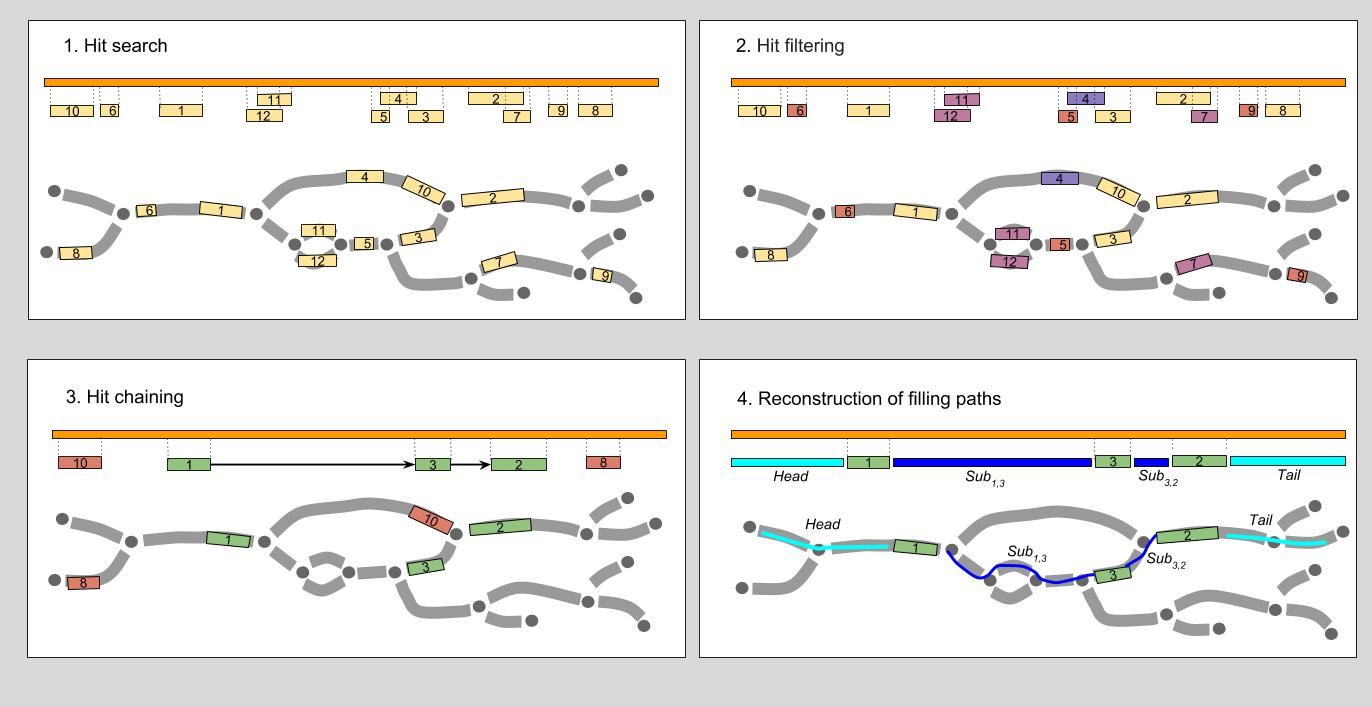
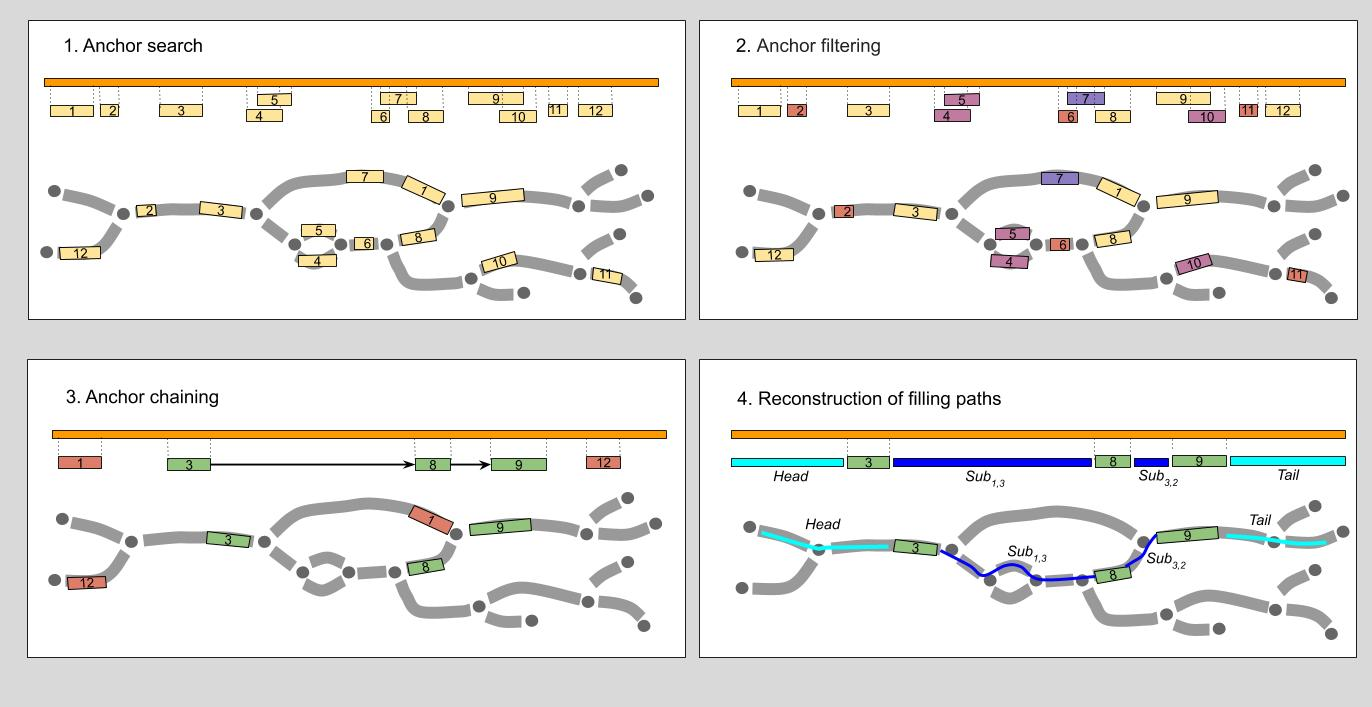
Update K->k, pics and rename hits to anchors

diff --git a/assembler/src/projects/spaligner/align_longreads.cpp b/assembler/src/projects/spaligner/align_longreads.cpp
@@ -212,7 +212,7 @@ void Launch(GAlignerConfig &cfg, const string output_dir, int threads) {
 
     INFO("Process reads from " << cfg.path_to_sequences);
     aligner.RunAligner();
-    INFO("Thank you for using SPAligner! Results can be found: " + output_dir )
+    INFO("Thank you for using SPAligner! Results can be found here: " + output_dir )
     fs::remove_dir(tmpdir);
 }
 } // namespace sensitive_aligner

diff --git a/assembler/src/projects/spaligner/README.md b/assembler/src/projects/spaligner/README.md
@@ -3,42 +3,38 @@
 Tool for fast and accurate alignment of nucleotide sequences (s.a. long reads, coding sequences, etc.) to assembly graphs. 
 
 
-## Main pipeline
+## Running SPAligner
 
-Overview of the alignment of query sequence *S* (orange bar) to assembly graph *G*. Assembly graph edges are considered directed left-to-right (explicit edge orientation was omitted to improve the clarity).
+    spaligner spaligner_config.yaml \    # config file 
+              -d pacbio \                # data type: pacbio, nanopore
+              -g assembly_graph.gfa \    # gfa-file with assembly graph 
+              -k 77 \                    # graph K-mer size
+              -s pacbio_reads.fastq.gz \ # sequences to align in fasta/fastq formats
+              -t 8                       # number of threads
 
-![pipeline](pipeline.jpg)
+By default, spaligner_config.yaml will be installed into /usr/share/spaligner/ or can be found in assembler/projects/spaligner/.
 
-1. **Hit search.** Hits (regions of high similarity) between the query and the edge labels are identified with [BWA-MEM](http://bio-bwa.sourceforge.net/). 
-2. **Hit filtering.** Hits shorter than *K*, assembly graph *K*-mer size,(hits 5, 6, 9), hits “in the middle” of long edge (hit 4) or ambiguous hits (hit 7 mostly covered by hit 2, both hits 11 and 12) are discarded.
-3. **Hit chaining.** Heaviest chain of compatible hits (chain 1->3->2) is determined.
-4. **Reconstruction of filling paths.** Paths for fragments of the query between the consecutive chain hits (as well as left- and right-most fragments) are reconstructed. The procedure is performed using fast library for sequence alignment [Edlib](https://github.com/Martinsos/edlib).
+Alignments will be saved to spaligner_result/alignment.tsv by default.
+
 
 ## Compilation
 
     git clone https://github.com/ablab/spades.git
-    cd algorithmic-biology/assembler/
+    cd spades/assembler/
     mkdir build && cd build && cmake ../src
     make spaligner
 
+Now to run SPAligner move to folder `assembler/` and execute
 
-## Running SPAligner
-
-    spaligner spaligner_config.yaml \
-              -k 77 -d pacbio \
-              -g assembly_graph.gfa \
-              -s pacbio_reads.fastq.gz
-
-By default, spaligner_config.yaml will be installed into /usr/share/spaligner/. 
-For nucleotide sequences alignments will be saved to spaligner_output.tsv by default.
+    build/bin/spaligner
 
 ## Output
 
 SPAligner can represent the results in three formats: *.tsv (default), *.fasta and [*.gpa](https://github.com/ocxtal/gpa "GPA-format spec").
 
-    spaligner_output.tsv              tab-separated file with alignments information, each line represents an alignment of a single sequence
-    spaligner_output.fasta            each record represents alignment of a sequence onto assembly graph
-    spaligner_output.gpa              alignment stored in gpa-format
+    spaligner_result/alignment.tsv              tab-separated file with alignments information, each line represents an alignment of a single sequence
+    spaligner_result/alignment.fasta            each record represents alignment of a sequence onto assembly graph
+    spaligner_result/alignment.gpa              alignment stored in gpa-format
 
 
 ## Results interpretation
@@ -84,7 +80,7 @@ AGGTTGTTTTTTGTTTCTTCCGC... — sequence of alignment Path <br/>
 
 **Example 3**<br/>
 
-Sometimes sequence alignment on the graph can be represented as several non-overlapping subpaths (if there is no alignment with appropriate score between two consecutive bwa hits). <br/>
+Sometimes sequence alignment on the graph can be represented as several non-overlapping subpaths (if there is no alignment with appropriate score between two consecutive bwa anchors). <br/>
 So, there can be several unconnected alignments of sequence onto assembly graph and several start positions, end positions, paths etc.:
 
 ```
@@ -102,43 +98,55 @@ Path sequence: TTATCCGGG.
 
 If a sequence was not fully aligned, SPAligner tries to prolong the longest alignment subpath in order to reconstruct a full alignment path. In **Example 2** SPAligner was not able to prolong any of two given alignments.
 
+
+## Algorithm overview
+
+Overview of the alignment of the nucleotide query sequence *S* (orange bar) to assembly graph *G*. Assembly graph edges are considered directed left-to-right (explicit edge orientation was omitted to improve the clarity).
+
+![pipeline](pipeline.jpg)
+
+1. **Anchor search.** Anchors (regions of high similarity) between the query and the edge labels are identified with [BWA-MEM](http://bio-bwa.sourceforge.net/). 
+2. **Anchor filtering.** Anchors shorter than *K*, assembly graph *K*-mer size,(anchors 2, 6, 11), anchors “in the middle” of long edge (anchor 7) or ambiguous anchors (anchor 10 mostly covered by anchor 9, both anchors 4 and 5) are discarded.
+3. **Anchor chaining.** Heaviest chain of compatible anchors (chain 3->8->9) is determined.
+4. **Reconstruction of filling paths.** Paths for fragments of the query between the consecutive chain anchors (as well as left- and right-most fragments) are reconstructed. The procedure is performed using fast library for sequence alignment [Edlib](https://github.com/Martinsos/edlib).
+
 ## Parameters tuning
 
 Full list of parameters can be found in spaligner_config.yaml. 
 
-### Nucleotide sequence alignment
+### General alignment parameters
 
-* `run_dijkstra: true` Run Dijkstra algorithm to find alignment between hits, if `run_dijkstra=false`, SPAligner will check limited number of paths and return the best one.
-* `restore_ends: true` Restore alignment path before leftmost hit and after rightmost hit.
+* `run_dijkstra: true` Run Dijkstra algorithm to find alignment between anchors, if `run_dijkstra: false`, SPAligner will check limited number of paths and return the best one.
+* `restore_ends: true` Restore alignment path before leftmost anchor and after rightmost anchor.
 
 
-* `internal_length_cutoff: 200` BWA hits with length < internal_length_cutoff will be filtered out.
-* `path_limit_stretching: 1.3` Pair of hits is considered to be compatible if (the minimal distance between them in graph) 
-                                < path_limit_stretching * (the distance between their positions on sequence).
-* `path_limit_pressing: 0.7` Pair of hits is considered to be compatible if (the minimal distance between them in graph) 
-                                > path_limit_pressing * (the distance between their positions on sequence).
-* `max_path_in_chaining: 15000` Limit on number of paths to consider between two hits on hits chaining step.
-* `max_vertex_in_chaining: 5000` Limit on number of vertices to consider between two hits on hits chaining step.
+* `internal_length_cutoff: 200` Anchors with length < `internal_length_cutoff` will be filtered out.
+* `path_limit_stretching: 1.3` Pair of anchors is considered to be compatible if (the minimal distance between them in graph) 
+                                < `path_limit_stretching` * (the distance between their positions on sequence).
+* `path_limit_pressing: 0.7` Pair of anchors is considered to be compatible if (the minimal distance between them in graph) 
+                                > `path_limit_pressing` * (the distance between their positions on sequence).
+* `max_path_in_chaining: 15000` Limit on number of paths to consider between two anchors on anchors chaining step.
+* `max_vertex_in_chaining: 5000` Limit on number of vertices to consider between two anchors on anchors chaining step.
 
-### Dijskstra run parameters
+### Internal run parameters
 
 * `queue_limit: 1000000` Limit on queue length. 
 * `iteration_limit: 1000000` Limit on total number of queue extraction. 
 * `updates_limit: 1000000` Limit on number of updates of shortest distance for all states.
-* `find_shortest_path: true` If `find_shortest_path=false` Dijkstra algorithm will stop when it reaches finish state without searching for shortest path.
-* `restore_mapping: false` If `restore_mapping=true` Dijkstra algorithm will return full alignment information (used by for developers).
+* `find_shortest_path: true` If `find_shortest_path: false` Dijkstra algorithm will stop when it reaches finish state without searching for shortest path.
+* `restore_mapping: false` If `restore_mapping: true` Dijkstra algorithm will return full alignment information (used by for developers).
 * `penalty_ratio: 0.1` Algorithm never considers states representing an alignment of a prefix S[0:i] with score more than min_score(i) + i*penalty_ratio (for nucleotide sequence alignment only).
 * `max_ed_proportion: 3` Maximal edit distance is bounded by a fraction of the query sequence length |S|/max_ed_proportion. Increase of max_ed_proportion leads to shorter alignments but with higer identity.
 * `ed_lower_bound: 500` Minimal penalty score of alignment.
 * `ed_upper_bound: 2000` Maximal penalty score of alignment.
-* `max_gs_states: 120000000` If number of queue states exceeds max_gs_limit then shortest path search is not performed (for nucleotide sequence alignment only).
-* `max_restorable_length: 5000` If distance between two hits or between leftmost/rightmost hit and start/end exceeds max_restorable_length then shortest path search is not performed.
+* `max_gs_states: 120000000` If number of queue states exceeds `max_gs_limit` then shortest path search is not performed (for nucleotide sequence alignment only).
+* `max_restorable_length: 5000` If distance between two anchors or between leftmost/rightmost anchor and start/end exceeds `max_restorable_length` then shortest path search is not performed.
 
-Increase of max_gs_states, max_restorable_length, queue_limit, iteration_limit or updates_limit may lead to longer alignments with the same identity level, but slows down the process and can use much more memory.
+Increase of `max_gs_states`, `max_restorable_length`, `queue_limit`, `iteration_limit` or `updates_limit` may lead to longer alignments with the same identity level, but slows down the process and can use much more memory. Please change them if you 100% confident in what you are doing.
 
 Turning off restore_ends or run_dijkstra in nucleotide sequence alignment mode leads to shorter alignments, but considerable speed-up.
 
 
 ## Contacts
 
-For any questions or suggestions please create an issue or do not hesitate to contact Tatiana Dvorkina <tedvorkina@gmail.com> directly.
+For any questions or suggestions please do not hesitate to contact Tatiana Dvorkina <tedvorkina@gmail.com>.
